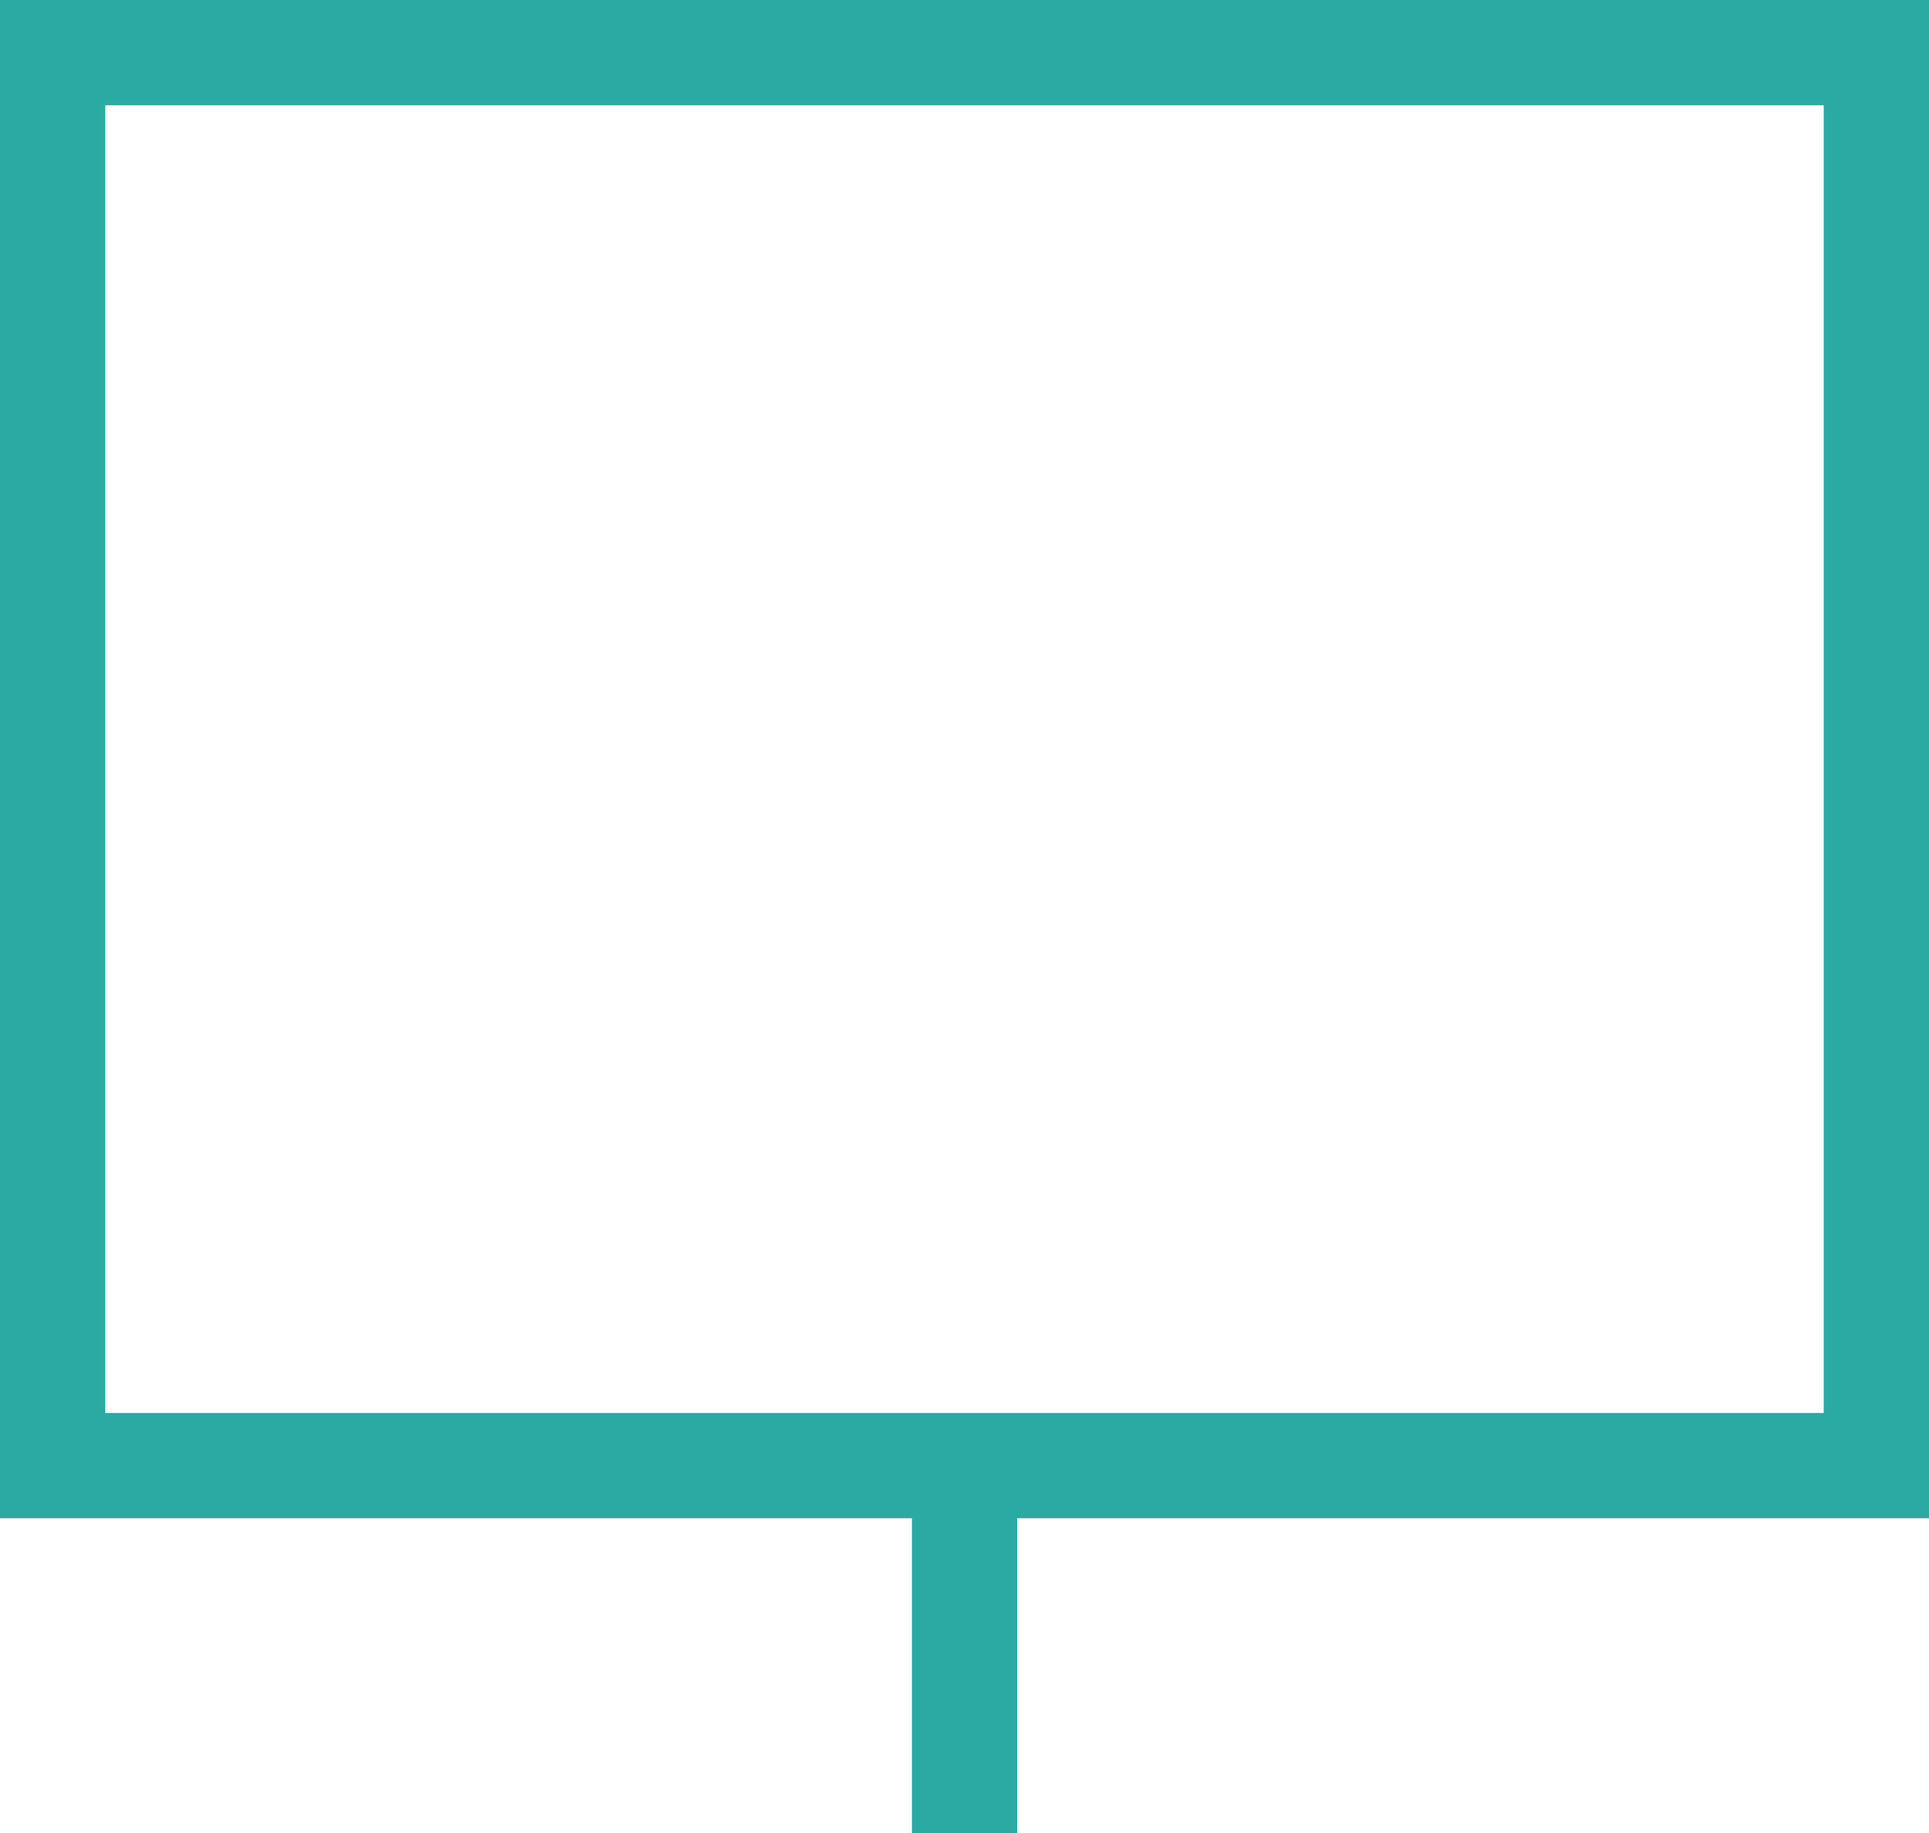
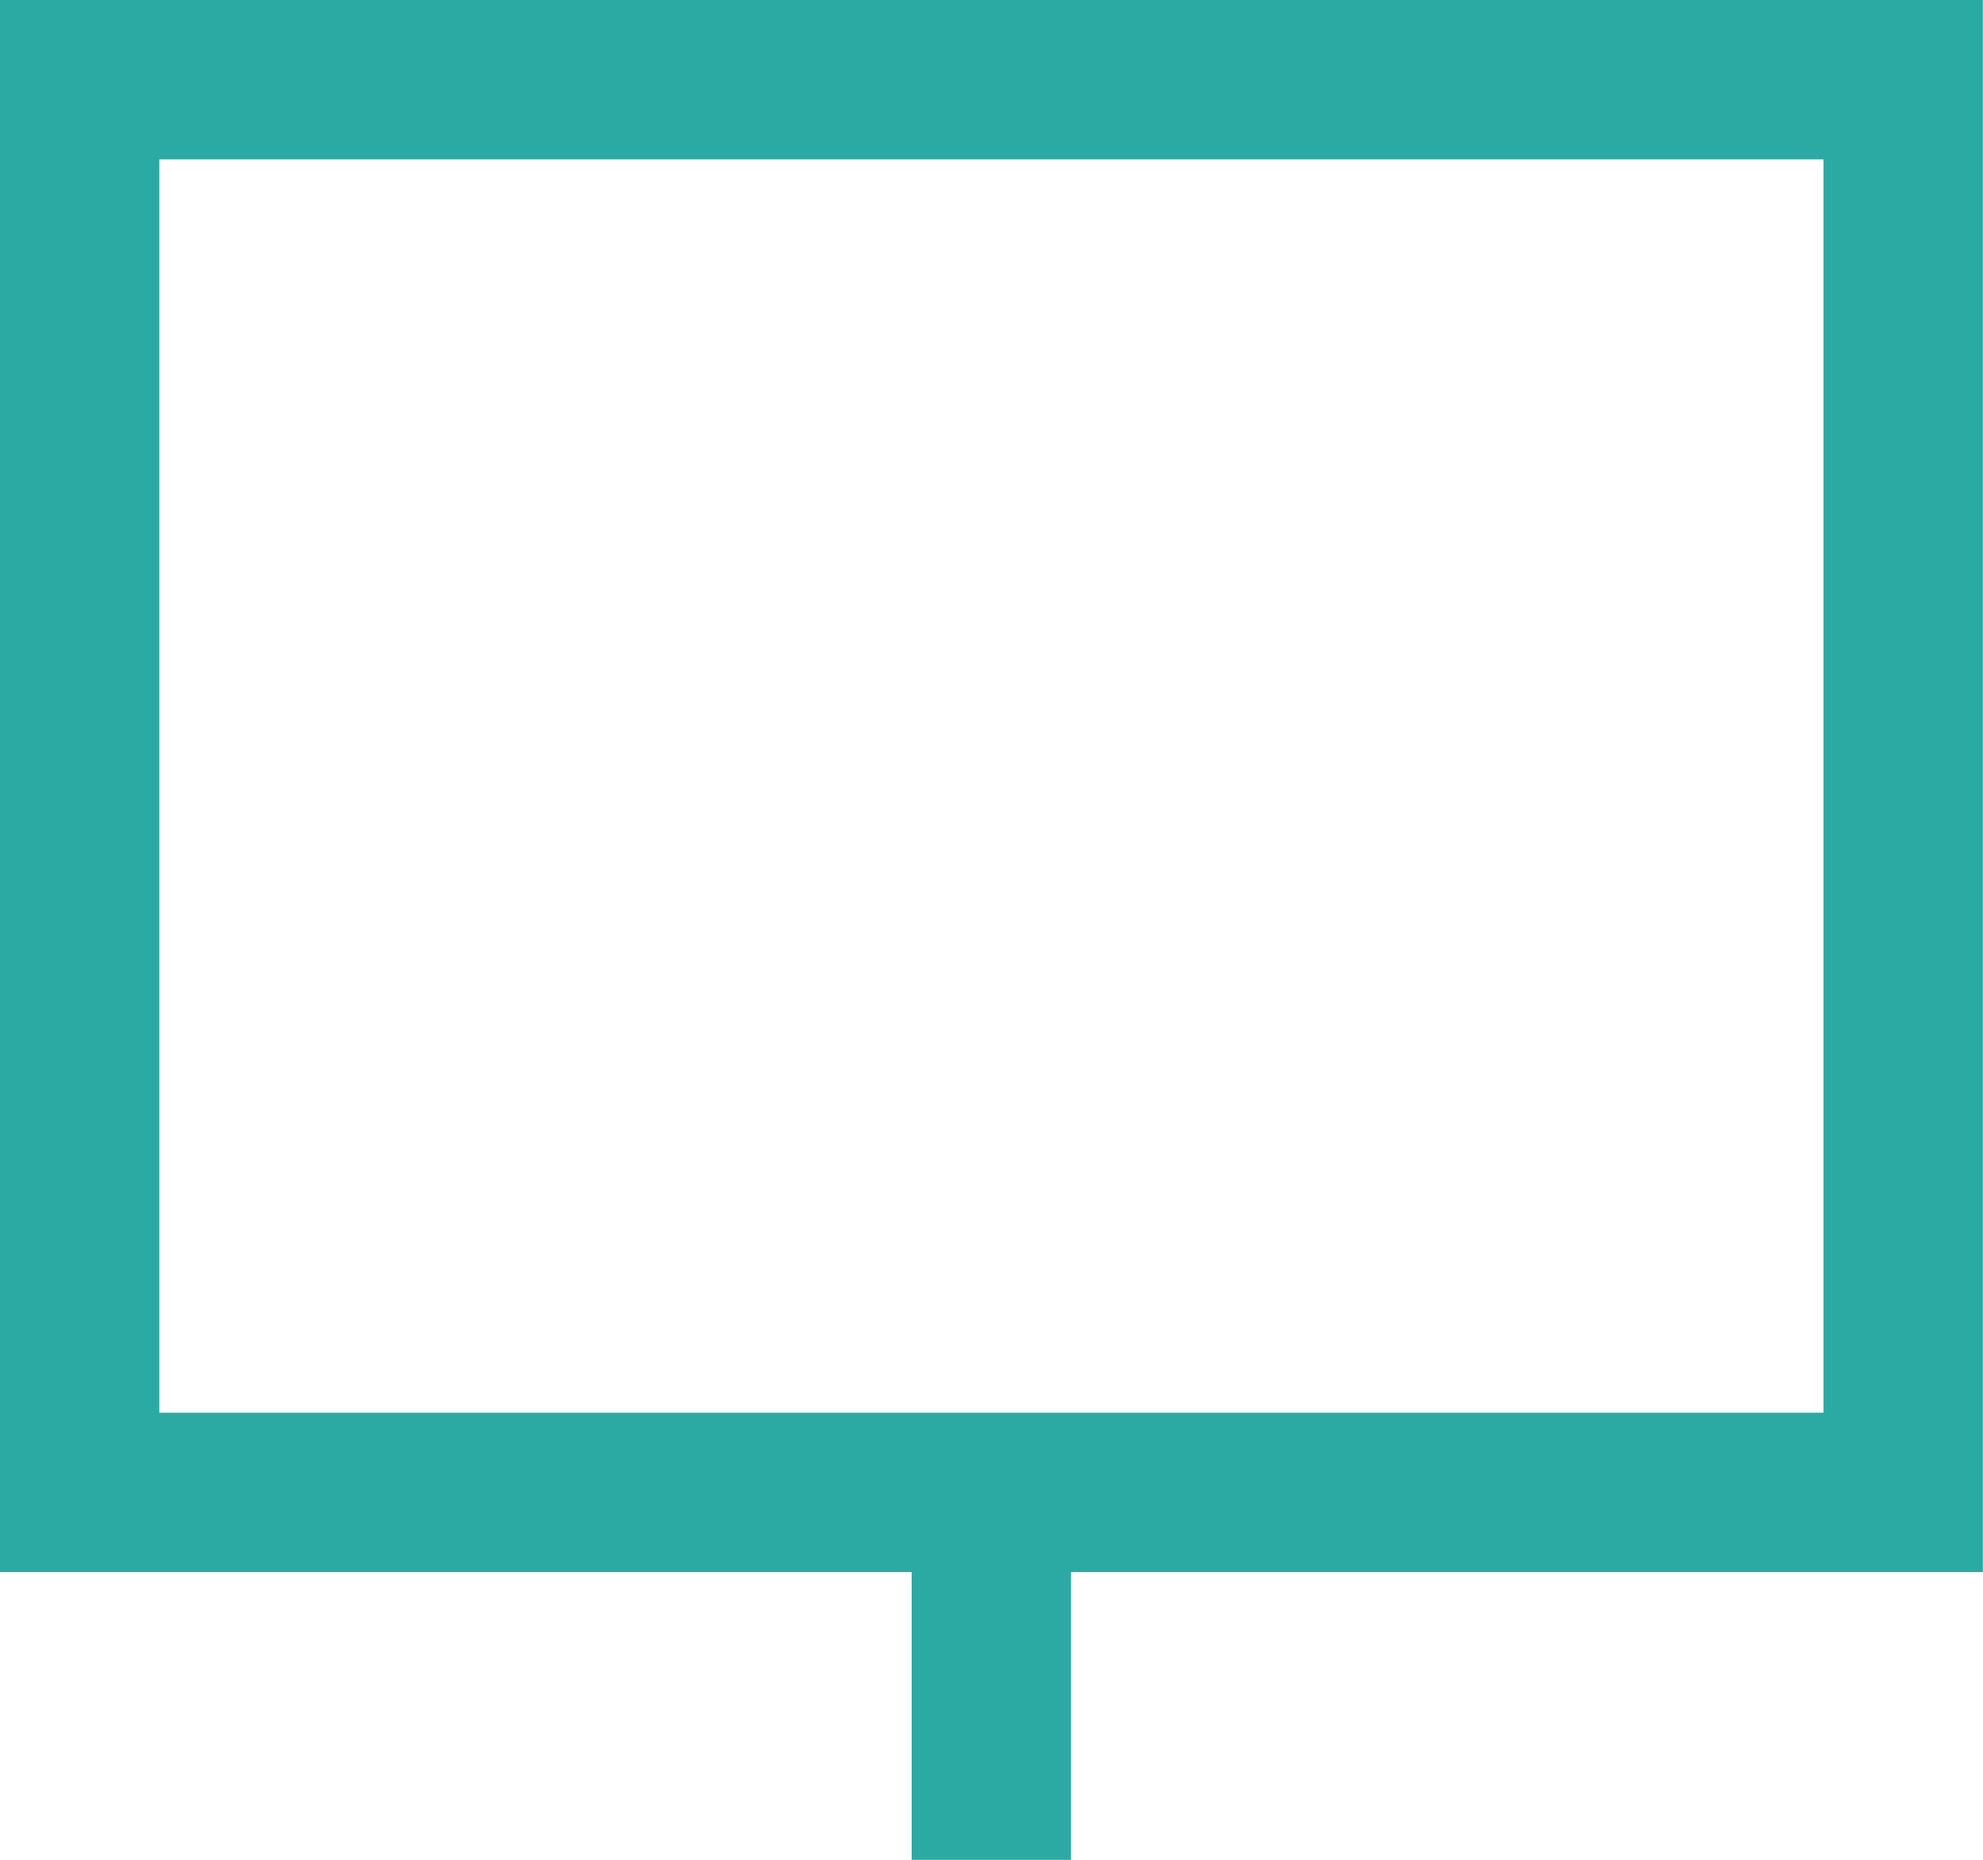
1. made subnet image thicker 2. removed active state for menu item when menu is closed.

Changed region(s): [[0.031, 0.0309, 0.961, 0.7736], [0.0, 0.8046, 0.496, 1.0], [0.527, 0.8046, 1.0, 1.0]]

diff --git a/app/scripts/controllers/main.js b/app/scripts/controllers/main.js
@@ -85,12 +85,16 @@ angular.module('nestorApp')
       //--------------------------------------
 
       $scope.linkActivated = function (option) {
+        //when someone closes the submenu, we want the active state to disappear
         $scope.selectedOption = option.name;
+
+
       };
 
       $scope.closeLeft = function () {
 
-        $scope.isLeftOpen = !$scope.isLeftOpen;
+        $scope.isLeftOpen = false;
+        delete $scope.selectedOption;
         $rootScope.$broadcast('leftmostResizeRequest');
       };
 

diff --git a/app/styles/main.css b/app/styles/main.css
@@ -1212,12 +1212,12 @@ section#support .media:hover i {
 }
 #left-panel .mainmenu .options.optionActive {
   cursor: pointer;
-  border-left: 4px solid teal;
+  border-left: 3px solid teal;
   height: 30px;
   margin-bottom: 20px;
 }
 #left-panel .mainmenu .options.optionActive img {
-  margin-left: 3px;
+  margin-left: 4px;
 }
 #left-panel .optionsmenu {
   z-index: 0;

diff --git a/app/styles/menu.less b/app/styles/menu.less
@@ -38,11 +38,11 @@
     }
     .options.optionActive {
       cursor: pointer;
-      border-left: 4px solid teal;
+      border-left: 3px solid teal;
       height: 30px;
       margin-bottom: 20px;
       img {
-        margin-left: 3px;
+        margin-left: 4px;
       }
     }
   }
